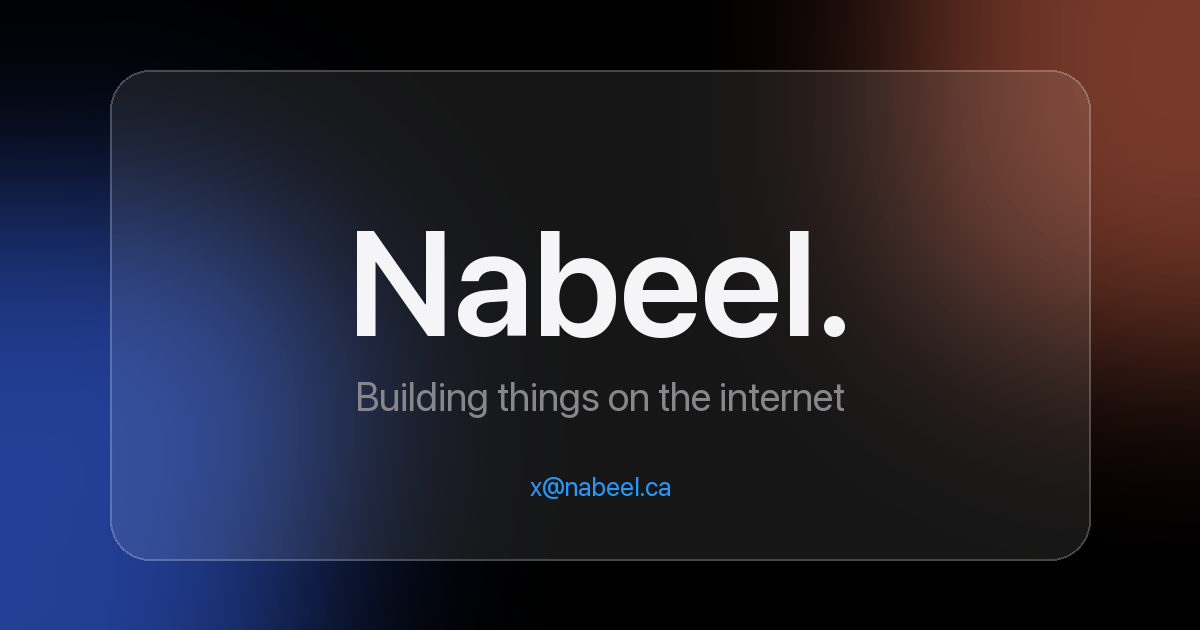
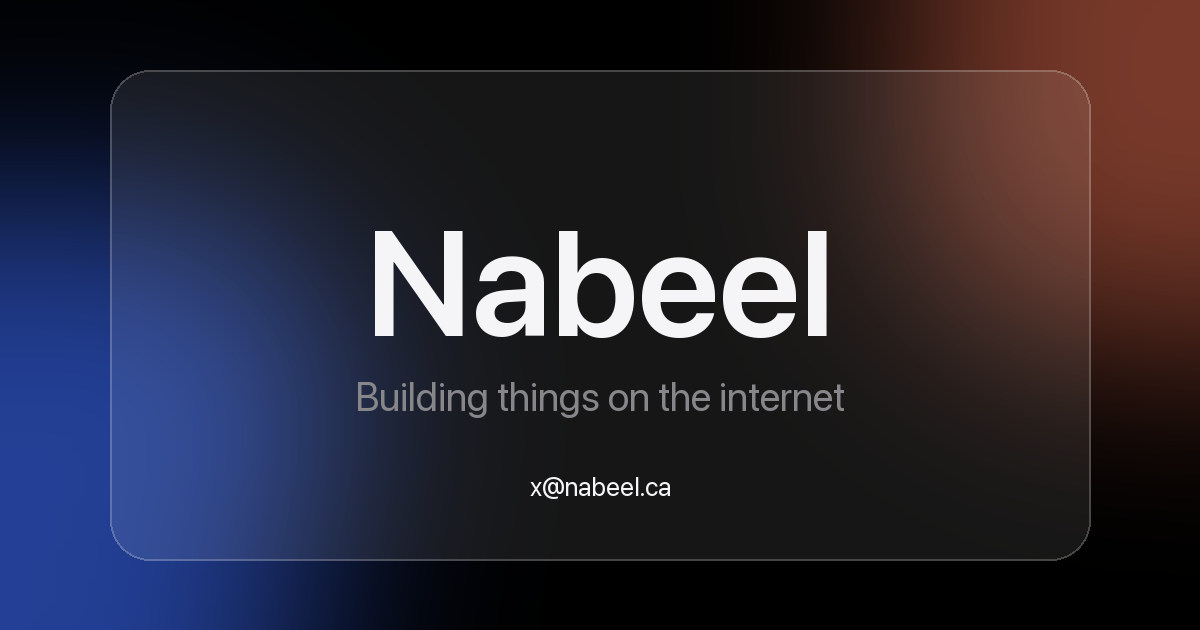
Name without the period; OG image to match

Changed region(s): [[0.2775, 0.3619, 0.7092, 0.5429], [0.4317, 0.754, 0.555, 0.7841]]

diff --git a/index.html b/index.html
@@ -1,7 +1,7 @@
 <!--
 index.html
 
-Version: 7.0.1
+Version: 7.0.2
 Last updated: 2026-09-10
 Author: Nabeel
 -->
@@ -27,7 +27,7 @@ Author: Nabeel
     <meta property="og:url" content="https://nabeel.ca/" />
     <meta property="og:title" content="Nabeel" />
     <meta property="og:description" content="Personal site of Nabeel." />
-    <meta property="og:image" content="https://nabeel.ca/og-image.png?v=7" />
+    <meta property="og:image" content="https://nabeel.ca/og-image.png?v=8" />
     <meta property="og:image:width" content="1200" />
     <meta property="og:image:height" content="630" />
 
@@ -35,7 +35,7 @@ Author: Nabeel
     <meta name="twitter:url" content="https://nabeel.ca/" />
     <meta name="twitter:title" content="Nabeel" />
     <meta name="twitter:description" content="Personal site of Nabeel." />
-    <meta name="twitter:image" content="https://nabeel.ca/og-image.png?v=7" />
+    <meta name="twitter:image" content="https://nabeel.ca/og-image.png?v=8" />
 
     <link rel="preconnect" href="https://cdn.jsdelivr.net" crossorigin />
     <style>
@@ -650,14 +650,14 @@ Author: Nabeel
       </div>
       <div class="banner-text-container">
         <div class="banner-text" id="name">
-          <span class="word"><span class="i">i</span>N<span class="a">a<span class="leaf-box" aria-hidden="true"><svg class="leaf" viewBox="0 0 85 98"><path fill="#61bb46" d="M62.2 66.8c14.6-17.7 24.5-42.3 21.8-66.8-21.1.9-46.6 14.1-61.7 31.8-13.5 15.7-25.3 40.7-22.1 64.7 23.5 1.8 47.4-12 62-29.7z"/></svg></span></span>beel.</span>
+          <span class="word"><span class="i">i</span>N<span class="a">a<span class="leaf-box" aria-hidden="true"><svg class="leaf" viewBox="0 0 85 98"><path fill="#61bb46" d="M62.2 66.8c14.6-17.7 24.5-42.3 21.8-66.8-21.1.9-46.6 14.1-61.7 31.8-13.5 15.7-25.3 40.7-22.1 64.7 23.5 1.8 47.4-12 62-29.7z"/></svg></span></span>beel</span>
           <span class="stripes" aria-hidden="true">
-            <span class="band"><span><span class="i">i</span>Nabeel.</span></span>
-            <span class="band"><span><span class="i">i</span>Nabeel.</span></span>
-            <span class="band"><span><span class="i">i</span>Nabeel.</span></span>
-            <span class="band"><span><span class="i">i</span>Nabeel.</span></span>
-            <span class="band"><span><span class="i">i</span>Nabeel.</span></span>
-            <span class="band"><span><span class="i">i</span>Nabeel.</span></span>
+            <span class="band"><span><span class="i">i</span>Nabeel</span></span>
+            <span class="band"><span><span class="i">i</span>Nabeel</span></span>
+            <span class="band"><span><span class="i">i</span>Nabeel</span></span>
+            <span class="band"><span><span class="i">i</span>Nabeel</span></span>
+            <span class="band"><span><span class="i">i</span>Nabeel</span></span>
+            <span class="band"><span><span class="i">i</span>Nabeel</span></span>
           </span>
           <span class="runner" id="runner" aria-hidden="true"><span class="word">i</span><span class="stripes"><span class="band"><span>i</span></span><span class="band"><span>i</span></span><span class="band"><span>i</span></span><span class="band"><span>i</span></span><span class="band"><span>i</span></span><span class="band"><span>i</span></span></span></span>
         </div>
